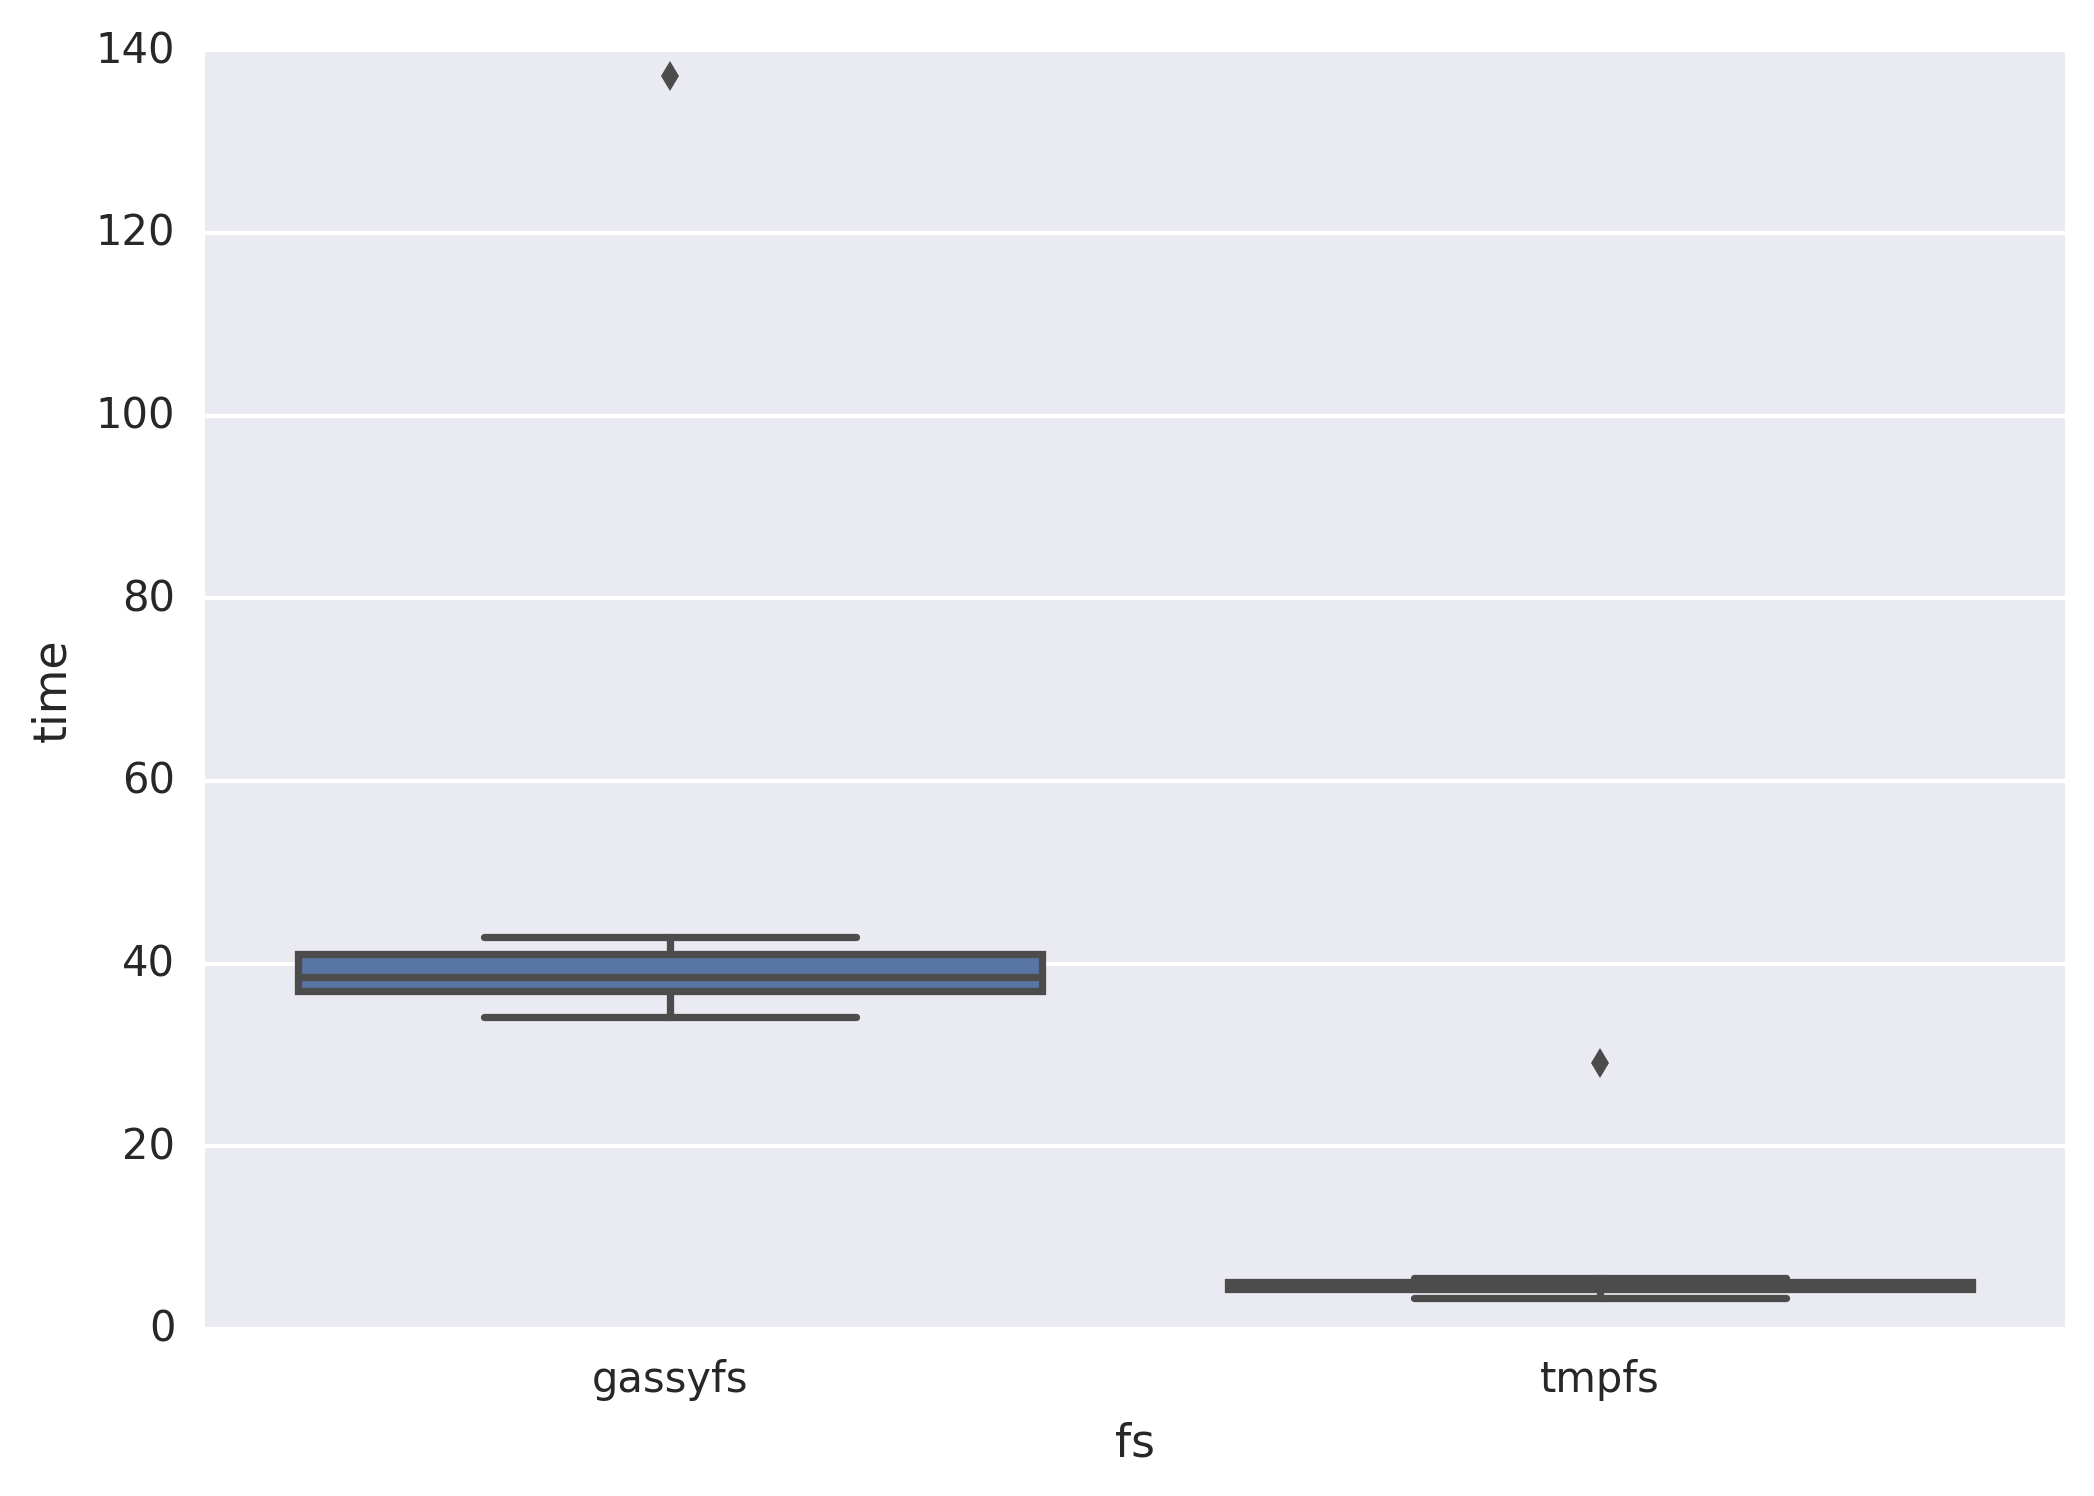
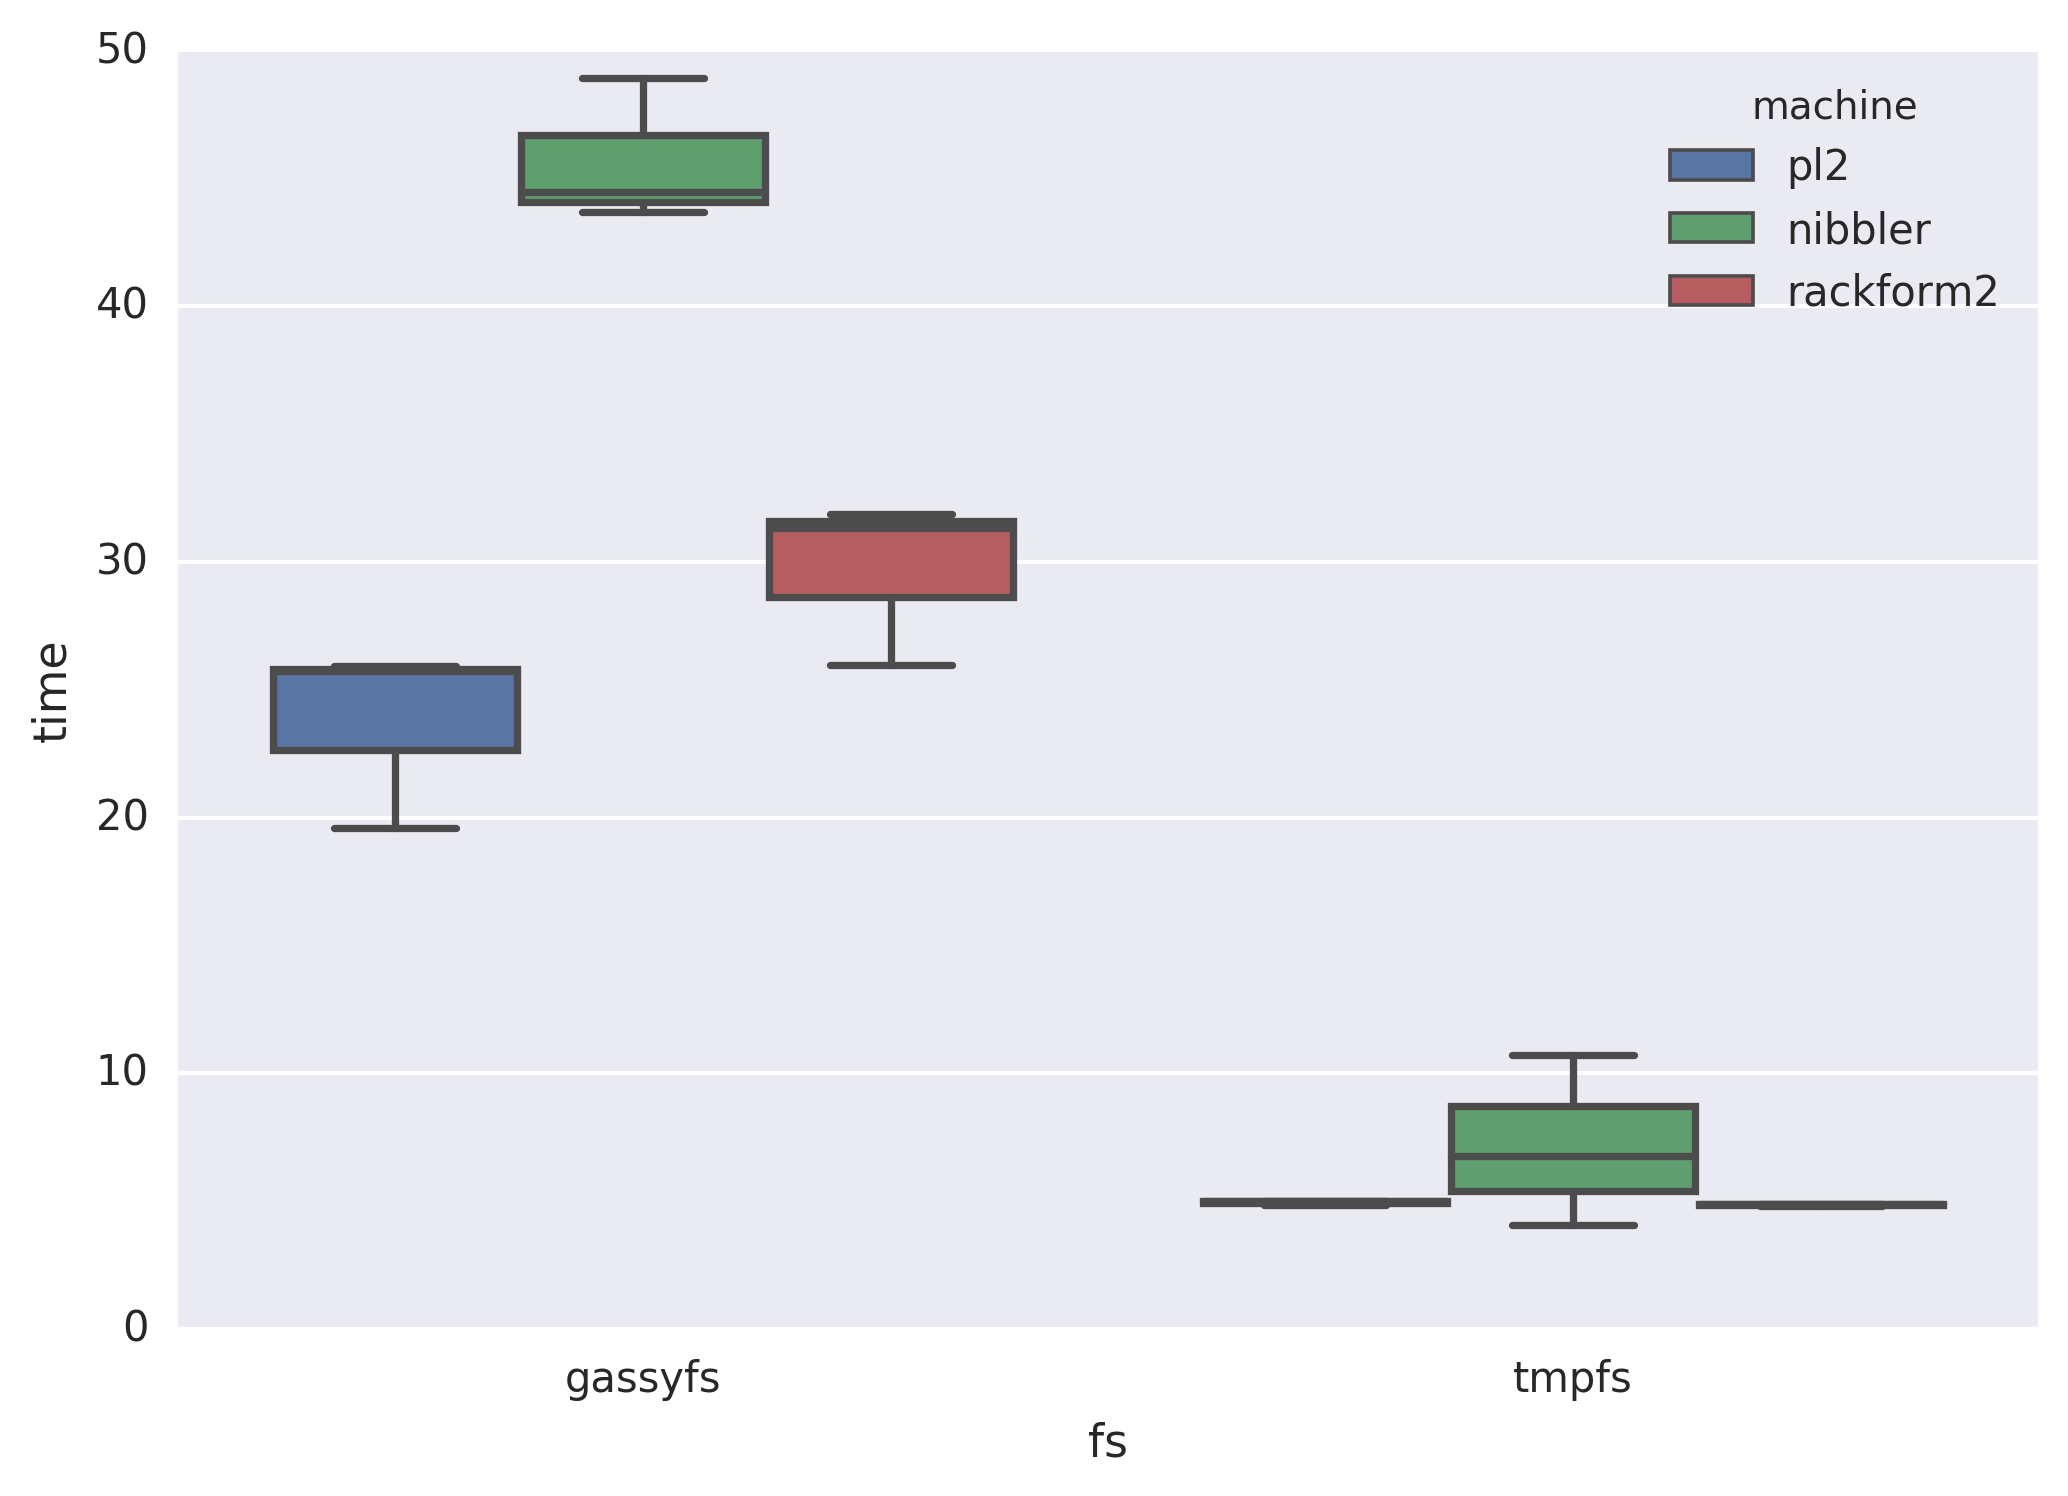
Adds more workloads and machines to variability experiment
Fixes #34

diff --git a/main.md b/main.md
@@ -106,7 +106,7 @@ current practice is to make the code available in a public repository
 and leave readers with the daunting task of recompiling, 
 reconfiguring, deploying and re-executing an experiment. In this work, 
 we revisit the idea of an executable paper 
-[@strijkers_executable_2011], which poses the integration of 
+[@strijkers_executable_2011], which proposes the integration of 
 executables and data with scholarly articles to help facilitate its 
 reproducibility, but look at implementing it in today's 
 cloud-computing world by treating an article as an open source 
@@ -129,7 +129,7 @@ validation of results. There are two main goals for this convention:
 If, from an article's inception, researchers make use of 
 version-control systems, lightweight OS-level virtualization, 
 automated multi-node orchestration, continuous integration and 
-web-based data visualization, re-executing and validating an 
+web-based data visualization, then re-executing and validating an 
 experiment becomes practical. This paper makes the following 
 contributions:
 
@@ -140,10 +140,14 @@ contributions:
   * GasssyFS: a scalable in-memory file system that adheres to the 
     Popper convention.
 
-Our use case highlights the ability of re-executing experiments on 
-multiple platforms with minimal effort, and how automated performance 
-regression testing helps in maintaining the reproducibility integrity 
-of experiments.
+GassyFS, while simple in design, is complex in terms of compilation 
+and configuration. Using it as a use case for Popper illustrates the 
+benefits of following this convention: it becomes practical for others 
+to re-execute experiments on multiple platforms with minimal effort, 
+without having to speculate on what the original authors (ourselves) 
+did to compile and configure the system; and shows how automated 
+performance regression testing aids in maintaining the reproducibility 
+integrity of experiments.
 
 The rest of the paper is organized as follows. _Section II_ analyzes 
 the traditional OSS development model and how it applies to academic 
@@ -253,11 +257,13 @@ processes require:
 
 # The OSS Development Model for Academic Articles
 
-In the following section, we look at software tools for maintaining 
-code and describe how they can help make scientific papers reproducible.
-By using these tools for maintaining experiments in the paper, the authors
-enjoy the same benefits that the tools provide for software. We use the 
-generic OSS workflow in Figure 1 to guide our discussion.
+In practice, the open-source software (OSS) development process is 
+applied to software projects (Figure 1). In the following section, we 
+list the key reasons why the process of writing scientific papers is 
+so amenable to OSS methodologies. The goal of our work is to apply 
+these in the academic setting in order to enjoy from the same 
+benefits. We use the generic OSS workflow in Figure 1 to guide our 
+discussion.
 
 ## Version Control
 
@@ -302,7 +308,7 @@ GitHub and BitBucket are web-based Git repository hosting services.
 They offer all of the distributed revision control and source code 
 management (SCM) functionality of Git as well as adding their own 
 features. They give new users the ability to look at the entire 
-history of the authors' development process.
+history of the project and its artifacts.
 
 ## Package Management
 
@@ -330,10 +336,10 @@ are modern package managers such as Nix [@dolstra_nixos_2008] or Spack
 
 Continuous Integration (CI) is a development practice that requires 
 developers to integrate code into a shared repository frequently with 
-the purpose of catching errors as early as possible. An experiment is 
-not absent of this type of issues. If an experiment's findings can be 
-codified in the form of a unit test, this can be verified on every 
-change to the article's repository.
+the purpose of catching errors as early as possible. The experiments 
+associated to an article is not absent of this type of issues. If an 
+experiment's findings can be codified in the form of a unit test, this 
+can be verified on every change to the article's repository.
 
 **Tools and services**: Travis CI is an open-source, hosted, 
 distributed continuous integration service used to build and test 
@@ -669,11 +675,11 @@ following:
   when
     workload=*
   expect
-    time(fs='gassyfs') < 1.75 * time(fs='tmpfs')
+    time(fs='gassyfs') < 5 * time(fs='tmpfs')
 ```
 
 The above assertion codifies the condition that, regardless of the 
-workload, GassyFS should not be less than 75% worse than TmpFS. This 
+workload, GassyFS should not be less than 5x worse than TmpFS. This 
 number is taken from empirical evidence and from work published in 
 [@tarasov_terra_2015].
 
@@ -682,9 +688,9 @@ notebooks (as we propose in this convention) due to double-blind
 review.
 
 ![\[[source](https://github.com)\] Boxplots comparing the variability 
-of GassyFS vs TmpFS on distinct `fio` workloads. Every test was 
-executed 3 times on machine $M_4$ from Table 
-1.](figures/gassyfs-variability.png)
+of GassyFS vs TmpFS on a sequential `fio` workload. Every test was 
+executed 3 times on machines listed on Table 1 (all except 
+$M_4$).](figures/gassyfs-variability.png)
 
 ## Experiment 2: Analytics on GassyFS
 
@@ -734,7 +740,9 @@ datasets. Having GassyFS, users can scale-up DRAM by aggregating the
 memory of multiple nodes, which is an alternative to the conventional 
 way in which that Dask is used. We show that even though Dask is 
 efficient, having NetCDF datasets in GassyFS improves the performance 
-significantly.](figures/dask.png)
+significantly. The variability of the experiment comes from executing 
+the same workload on all the machines listed in Table 
+1.](figures/dask.png)
 
 ## Experiment 3: Scalability
 
